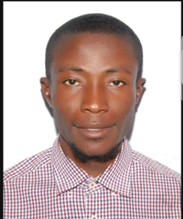
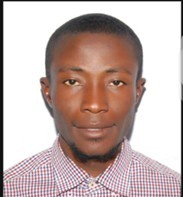
revision

diff --git a/assets/site.css b/assets/site.css
@@ -37,14 +37,14 @@
   --space-md: 24px;
   --space-lg: 40px;
 
-  /* Dark theme colors */
-  --bg: #0b0f14;
-  --panel: linear-gradient(180deg, rgba(255,255,255,0.02), rgba(255,255,255,0.01));
+  /* Dark theme colors - Enhanced clarity */
+  --bg: #0a0e13;
+  --panel: linear-gradient(180deg, rgba(255,255,255,0.04), rgba(255,255,255,0.02));
   --muted: #9aa6b2;
   --text: #e6eef6;
   --accent: #4dd0e1;
   --accent-2: #7c4dff;
-  --glass: rgba(255,255,255,0.03);
+  --glass: rgba(255,255,255,0.05);
 }
 
 /* Light theme overrides */
@@ -76,7 +76,7 @@ body{
   overflow-x: hidden;
 }
 
-/* Layer 1: Base gradient mesh - smooth top to bottom */
+/* World-class crisp background - Layer 1: Clean gradient foundation */
 body::before {
   content: "";
   position: fixed;
@@ -85,50 +85,42 @@ body::before {
   width: 100%;
   height: 100%;
   background: 
-    linear-gradient(180deg, 
-      rgba(124, 92, 255, 0.05) 0%, 
-      rgba(18, 214, 223, 0.03) 25%,
-      transparent 50%,
-      rgba(124, 92, 255, 0.03) 75%,
-      rgba(18, 214, 223, 0.05) 100%
+    linear-gradient(135deg, 
+      rgba(77, 208, 225, 0.08) 0%, 
+      transparent 35%,
+      transparent 65%,
+      rgba(124, 77, 255, 0.08) 100%
     ),
-    radial-gradient(ellipse 120% 80% at 50% 0%, rgba(124, 92, 255, 0.06) 0%, transparent 60%),
-    radial-gradient(ellipse 110% 90% at -10% 30%, rgba(18, 214, 223, 0.05) 0%, transparent 55%),
-    radial-gradient(ellipse 110% 90% at -10% 70%, rgba(124, 92, 255, 0.04) 0%, transparent 55%),
-    radial-gradient(ellipse 110% 90% at 110% 30%, rgba(124, 92, 255, 0.05) 0%, transparent 55%),
-    radial-gradient(ellipse 110% 90% at 110% 70%, rgba(18, 214, 223, 0.04) 0%, transparent 55%),
-    radial-gradient(ellipse 120% 80% at 50% 100%, rgba(18, 214, 223, 0.06) 0%, transparent 60%);
+    radial-gradient(ellipse 80% 60% at 50% 0%, rgba(124, 77, 255, 0.12) 0%, transparent 70%),
+    radial-gradient(ellipse 90% 70% at 0% 50%, rgba(77, 208, 225, 0.09) 0%, transparent 65%),
+    radial-gradient(ellipse 90% 70% at 100% 50%, rgba(124, 77, 255, 0.09) 0%, transparent 65%),
+    radial-gradient(ellipse 80% 60% at 50% 100%, rgba(77, 208, 225, 0.12) 0%, transparent 70%);
   pointer-events: none;
   z-index: 0;
-  animation: backgroundBreath 15s ease-in-out infinite;
-  will-change: transform, opacity;
-  backface-visibility: hidden;
+  will-change: opacity;
 }
 
-/* Layer 2: Floating ambient light */
+/* Layer 2: Strategic accent glow - no blur for clarity */
 body::after {
   content: "";
   position: fixed;
-  top: -30%;
-  left: -30%;
-  width: 160%;
-  height: 160%;
+  top: 0;
+  left: 0;
+  width: 100%;
+  height: 100%;
   background: 
-    radial-gradient(circle at 15% 25%, rgba(124, 92, 255, 0.07) 0%, transparent 35%),
-    radial-gradient(circle at 85% 25%, rgba(18, 214, 223, 0.07) 0%, transparent 35%),
-    radial-gradient(circle at 30% 60%, rgba(18, 214, 223, 0.06) 0%, transparent 35%),
-    radial-gradient(circle at 70% 60%, rgba(124, 92, 255, 0.06) 0%, transparent 35%),
-    radial-gradient(circle at 50% 85%, rgba(124, 92, 255, 0.05) 0%, transparent 30%);
+    radial-gradient(circle 600px at 20% 15%, rgba(124, 77, 255, 0.10) 0%, transparent 50%),
+    radial-gradient(circle 500px at 80% 20%, rgba(77, 208, 225, 0.10) 0%, transparent 50%),
+    radial-gradient(circle 550px at 30% 75%, rgba(77, 208, 225, 0.08) 0%, transparent 50%),
+    radial-gradient(circle 500px at 75% 80%, rgba(124, 77, 255, 0.08) 0%, transparent 50%);
   pointer-events: none;
   z-index: 0;
-  animation: backgroundFloat 30s ease-in-out infinite;
-  opacity: 0.7;
-  filter: blur(60px);
-  will-change: transform, opacity;
-  backface-visibility: hidden;
+  animation: backgroundFloat 25s ease-in-out infinite;
+  opacity: 1;
+  will-change: transform;
 }
 
-/* Layer 3: Subtle mesh overlay for depth */
+/* Layer 3: Subtle depth enhancement */
 html::before {
   content: "";
   position: fixed;
@@ -137,51 +129,35 @@ html::before {
   width: 100%;
   height: 100%;
   background: 
-    radial-gradient(circle at 20% 20%, rgba(124, 92, 255, 0.02) 0%, transparent 45%),
-    radial-gradient(circle at 80% 20%, rgba(18, 214, 223, 0.02) 0%, transparent 45%),
-    radial-gradient(circle at 20% 80%, rgba(18, 214, 223, 0.02) 0%, transparent 45%),
-    radial-gradient(circle at 80% 80%, rgba(124, 92, 255, 0.02) 0%, transparent 45%),
-    radial-gradient(circle at 50% 50%, rgba(124, 92, 255, 0.015) 0%, transparent 60%);
+    radial-gradient(circle 400px at 50% 20%, rgba(255, 255, 255, 0.02) 0%, transparent 60%),
+    radial-gradient(circle 350px at 25% 50%, rgba(77, 208, 225, 0.04) 0%, transparent 55%),
+    radial-gradient(circle 350px at 75% 50%, rgba(124, 77, 255, 0.04) 0%, transparent 55%),
+    radial-gradient(circle 400px at 50% 85%, rgba(255, 255, 255, 0.02) 0%, transparent 60%);
   pointer-events: none;
   z-index: 0;
-  animation: backgroundShimmer 25s ease-in-out infinite alternate;
+  animation: backgroundShimmer 20s ease-in-out infinite alternate;
   will-change: opacity;
-  backface-visibility: hidden;
 }
 
-@keyframes backgroundBreath {
-  0%, 100% { 
-    opacity: 0.8; 
-    transform: scale(1) translateZ(0);
-  }
-  50% { 
-    opacity: 1; 
-    transform: scale(1.02) translateZ(0);
-  }
-}
-
+/* Smooth, refined animations */
 @keyframes backgroundFloat {
   0%, 100% { 
-    transform: translate(0, 0) rotate(0deg) translateZ(0);
-    opacity: 0.7;
+    transform: translate(0, 0) translateZ(0);
+    opacity: 1;
   }
-  25% {
-    transform: translate(2%, -2%) rotate(1deg) translateZ(0);
-    opacity: 0.85;
+  33% {
+    transform: translate(1%, -1%) translateZ(0);
+    opacity: 0.95;
   }
-  50% { 
-    transform: translate(-1%, 3%) rotate(-1deg) translateZ(0);
-    opacity: 0.7;
-  }
-  75% {
-    transform: translate(-2%, -1%) rotate(0.5deg) translateZ(0);
-    opacity: 0.85;
+  66% { 
+    transform: translate(-1%, 1%) translateZ(0);
+    opacity: 0.95;
   }
 }
 
 @keyframes backgroundShimmer {
-  0% { opacity: 0.6; }
-  100% { opacity: 0.9; }
+  0% { opacity: 0.8; }
+  100% { opacity: 1; }
 }
 
 .container,
@@ -193,41 +169,37 @@ main {
 }
 
 /* Light mode background - softer, more diffused */
+/* Light mode - crisp and clean backgrounds */
 html[data-theme='light'] body::before {
   background: 
-    linear-gradient(180deg, 
-      rgba(75, 43, 255, 0.04) 0%, 
-      rgba(0, 150, 199, 0.025) 25%,
-      transparent 50%,
-      rgba(75, 43, 255, 0.025) 75%,
-      rgba(0, 150, 199, 0.04) 100%
+    linear-gradient(135deg, 
+      rgba(0, 107, 107, 0.06) 0%, 
+      transparent 35%,
+      transparent 65%,
+      rgba(75, 43, 255, 0.06) 100%
     ),
-    radial-gradient(ellipse 120% 80% at 50% 0%, rgba(75, 43, 255, 0.045) 0%, transparent 60%),
-    radial-gradient(ellipse 110% 90% at -10% 30%, rgba(0, 150, 199, 0.04) 0%, transparent 55%),
-    radial-gradient(ellipse 110% 90% at -10% 70%, rgba(75, 43, 255, 0.03) 0%, transparent 55%),
-    radial-gradient(ellipse 110% 90% at 110% 30%, rgba(75, 43, 255, 0.04) 0%, transparent 55%),
-    radial-gradient(ellipse 110% 90% at 110% 70%, rgba(0, 150, 199, 0.03) 0%, transparent 55%),
-    radial-gradient(ellipse 120% 80% at 50% 100%, rgba(0, 150, 199, 0.045) 0%, transparent 60%);
+    radial-gradient(ellipse 80% 60% at 50% 0%, rgba(75, 43, 255, 0.08) 0%, transparent 70%),
+    radial-gradient(ellipse 90% 70% at 0% 50%, rgba(0, 107, 107, 0.06) 0%, transparent 65%),
+    radial-gradient(ellipse 90% 70% at 100% 50%, rgba(75, 43, 255, 0.06) 0%, transparent 65%),
+    radial-gradient(ellipse 80% 60% at 50% 100%, rgba(0, 107, 107, 0.08) 0%, transparent 70%);
 }
 
 html[data-theme='light'] body::after {
   background: 
-    radial-gradient(circle at 15% 25%, rgba(75, 43, 255, 0.045) 0%, transparent 35%),
-    radial-gradient(circle at 85% 25%, rgba(0, 150, 199, 0.045) 0%, transparent 35%),
-    radial-gradient(circle at 30% 60%, rgba(0, 150, 199, 0.04) 0%, transparent 35%),
-    radial-gradient(circle at 70% 60%, rgba(75, 43, 255, 0.04) 0%, transparent 35%),
-    radial-gradient(circle at 50% 85%, rgba(75, 43, 255, 0.035) 0%, transparent 30%);
-  opacity: 0.5;
-  filter: blur(80px);
+    radial-gradient(circle 600px at 20% 15%, rgba(75, 43, 255, 0.07) 0%, transparent 50%),
+    radial-gradient(circle 500px at 80% 20%, rgba(0, 107, 107, 0.07) 0%, transparent 50%),
+    radial-gradient(circle 550px at 30% 75%, rgba(0, 107, 107, 0.05) 0%, transparent 50%),
+    radial-gradient(circle 500px at 75% 80%, rgba(75, 43, 255, 0.05) 0%, transparent 50%);
+  opacity: 1;
+  filter: none;
 }
 
 html[data-theme='light'] html::before {
   background: 
-    radial-gradient(circle at 20% 20%, rgba(75, 43, 255, 0.015) 0%, transparent 45%),
-    radial-gradient(circle at 80% 20%, rgba(0, 150, 199, 0.015) 0%, transparent 45%),
-    radial-gradient(circle at 20% 80%, rgba(0, 150, 199, 0.015) 0%, transparent 45%),
-    radial-gradient(circle at 80% 80%, rgba(75, 43, 255, 0.015) 0%, transparent 45%),
-    radial-gradient(circle at 50% 50%, rgba(75, 43, 255, 0.01) 0%, transparent 60%);
+    radial-gradient(circle 400px at 50% 20%, rgba(9, 12, 16, 0.02) 0%, transparent 60%),
+    radial-gradient(circle 350px at 25% 50%, rgba(0, 107, 107, 0.03) 0%, transparent 55%),
+    radial-gradient(circle 350px at 75% 50%, rgba(75, 43, 255, 0.03) 0%, transparent 55%),
+    radial-gradient(circle 400px at 50% 85%, rgba(9, 12, 16, 0.02) 0%, transparent 60%);
 }
 
 /* Subtle grid pattern overlay for world-class depth */
@@ -255,7 +227,7 @@ html[data-theme='light'] main::before {
   opacity: 0.25;
 }
 
-/* Vignette effect for smooth edges */
+/* Subtle vignette for edge definition */
 main::after {
   content: "";
   position: fixed;
@@ -264,14 +236,14 @@ main::after {
   width: 100%;
   height: 100%;
   background: 
-    radial-gradient(ellipse at center, transparent 0%, rgba(11, 15, 20, 0.3) 100%);
+    radial-gradient(ellipse at center, transparent 20%, rgba(10, 14, 19, 0.15) 100%);
   pointer-events: none;
   z-index: 0;
 }
 
 html[data-theme='light'] main::after {
   background: 
-    radial-gradient(ellipse at center, transparent 0%, rgba(246, 248, 250, 0.4) 100%);
+    radial-gradient(ellipse at center, transparent 20%, rgba(246, 248, 250, 0.25) 100%);
 }
 
 .container{max-width:var(--container);margin:0 auto;padding:0 20px}
@@ -280,7 +252,7 @@ html[data-theme='light'] main::after {
 .skip-link{position:absolute;left:8px;top:8px;background:#000;color:#fff;padding:8px;border-radius:6px;z-index:999;transform:translateY(-120%);transition:transform .18s ease}
 .skip-link:focus{transform:translateY(0)}
 
-.site-header{position:sticky;top:0;backdrop-filter:blur(6px);background:linear-gradient(180deg, rgba(0,0,0,0.45), rgba(0,0,0,0.15));z-index:50;border-bottom:1px solid rgba(255,255,255,0.03)}
+.site-header{position:sticky;top:0;backdrop-filter:blur(12px) saturate(180%);background:linear-gradient(180deg, rgba(10,14,19,0.85), rgba(10,14,19,0.75));z-index:50;border-bottom:1px solid rgba(255,255,255,0.06)}
 .site-header .container{padding:22px 24px;transition:padding .25s ease}
 .site-header.shrink .container{padding:14px 24px}
 
@@ -976,6 +948,14 @@ html[data-theme='light'] main::after {
 
 .footer{padding:18px 0;background:transparent;border-top:1px solid rgba(255,255,255,0.02);margin-top:40px}
 .footer__inner{display:flex;justify-content:space-between;align-items:center}
+.footer__credit{
+  font-size: var(--font-tiny);
+  color: var(--muted);
+  opacity: 0.7;
+  margin-top: 8px;
+  font-weight: var(--fw-regular);
+  letter-spacing: 0.3px;
+}
 
 .modal{position:fixed;inset:0;display:none;align-items:center;justify-content:center;background:rgba(3,6,10,0.6);padding:20px}
 .modal[aria-hidden="false"]{display:flex}

diff --git a/index.html b/index.html
@@ -544,7 +544,7 @@
               <div class="person-body">
                 <div class="person-name">Nur Allif Fathurrahman</div>
                 <div class="person-role">PhD Student</div>
-                <div class="person-thesis">Molecular engineering of Boron-Carbon-Nitride (BCN) nanocages for hydrogen storage and CO2 hydrogenation</B></div>
+                <div class="person-thesis">Molecular engineering of Boron-Carbon-Nitride (BCN) nanocages for hydrogen storage and CO₂ hydrogenation</B></div>
                 <div class="person-tags">
                   <span class="tag">Fuel Technology</span>
                   <span class="tag">Advanced Biofuels</span>
@@ -661,7 +661,8 @@
               <div class="person-body">
                 <div class="person-name">Reem Alharbi</div>
                 <div class="person-role">MS Student</div>
-                <div class="person-thesis">Research topic to be updated</div>
+                <div class="person-thesis">The role of first-row transition metal-doped calcium oxide nanocages in converting nitrogen to ammonia:
+A theoretical perspective</div>
                 <div class="person-tags">
                   <span class="tag">Computational Chemistry</span>
                   <span class="tag">Ammonia Dehydrogenation</span>
@@ -671,15 +672,22 @@
             </article>
 
             <article class="person-card" data-category="ms">
-              <img class="profile-photo" src="assets/image/male-placeholder.jpg" alt="Muhammad Halliru" loading="lazy">
+              <img class="profile-photo" src="assets/image/halliru.jpeg" alt="Muhammad Halliru" loading="lazy">
               <div class="person-body">
                 <div class="person-name">Muhammad Halliru</div>
                 <div class="person-role">MS Student</div>
-                <div class="person-thesis">Research topic to be updated</div>
+                <div class="person-thesis">DFT study of single atom functionalized COF-1N for efficient conversion of CO₂ to C1 products</div>
                 <div class="person-tags">
                   <span class="tag">Computational Chemistry</span>
                 </div>
-                <div class="person-links"></div>
+                <div class="person-links">
+                  <a href="https://www.linkedin.com/in/muhammad-halliru-umar-20714127a" target="_blank" rel="noopener" aria-label="LinkedIn">
+                    <svg viewBox="0 0 24 24" fill="none" xmlns="http://www.w3.org/2000/svg">
+                      <path d="M19 3a2 2 0 0 1 2 2v14a2 2 0 0 1-2 2H5a2 2 0 0 1-2-2V5a2 2 0 0 1 2-2h14m-.5 15.5v-5.3a3.26 3.26 0 0 0-3.26-3.26c-.85 0-1.84.52-2.32 1.3v-1.11h-2.79v8.37h2.79v-4.93c0-.77.62-1.4 1.39-1.4a1.4 1.4 0 0 1 1.4 1.4v4.93h2.79M6.88 8.56a1.68 1.68 0 0 0 1.68-1.68c0-.93-.75-1.69-1.68-1.69a1.69 1.69 0 0 0-1.69 1.69c0 .93.76 1.68 1.69 1.68m1.39 9.94v-8.37H5.5v8.37h2.77z" fill="currentColor"/>
+                    </svg>
+                    LinkedIn
+                  </a>
+                </div>
               </div>
             </article>
 
@@ -1037,19 +1045,12 @@
 
     <footer class="footer">
       <div class="container footer__inner">
-        <div>© <span id="year"></span> MSCC Research Group, Chemistry Department, King Fahd University of Petroleum & Minerals (KFUPM), Dhahran, Saudi Arabia</div>
+        <div>
+          <div>© <span id="year"></span> MSCC Research Group, Chemistry Department, King Fahd University of Petroleum & Minerals (KFUPM), Dhahran, Saudi Arabia</div>
+          <div class="footer__credit">Website crafted by Nur Allif Fathurrahman and Listya Eka Anggraini</div>
+        </div>
         <div class="footer__right">Hosted on GitHub Pages</div>
       </div>
     </footer>
-
-    <div id="cookieBanner" class="cookie-banner" role="region" aria-label="Cookie consent" aria-hidden="false">
-      <div class="cookie-inner">
-        <div class="cookie-text">We use minimal analytics to improve the site. By continuing you accept our cookie policy.</div>
-        <div class="cookie-actions">
-          <button id="acceptCookies" class="btn-primary">Accept</button>
-          <button id="declineCookies" class="btn-ghost">Decline</button>
-        </div>
-      </div>
-    </div>
   </body>
 </html>
